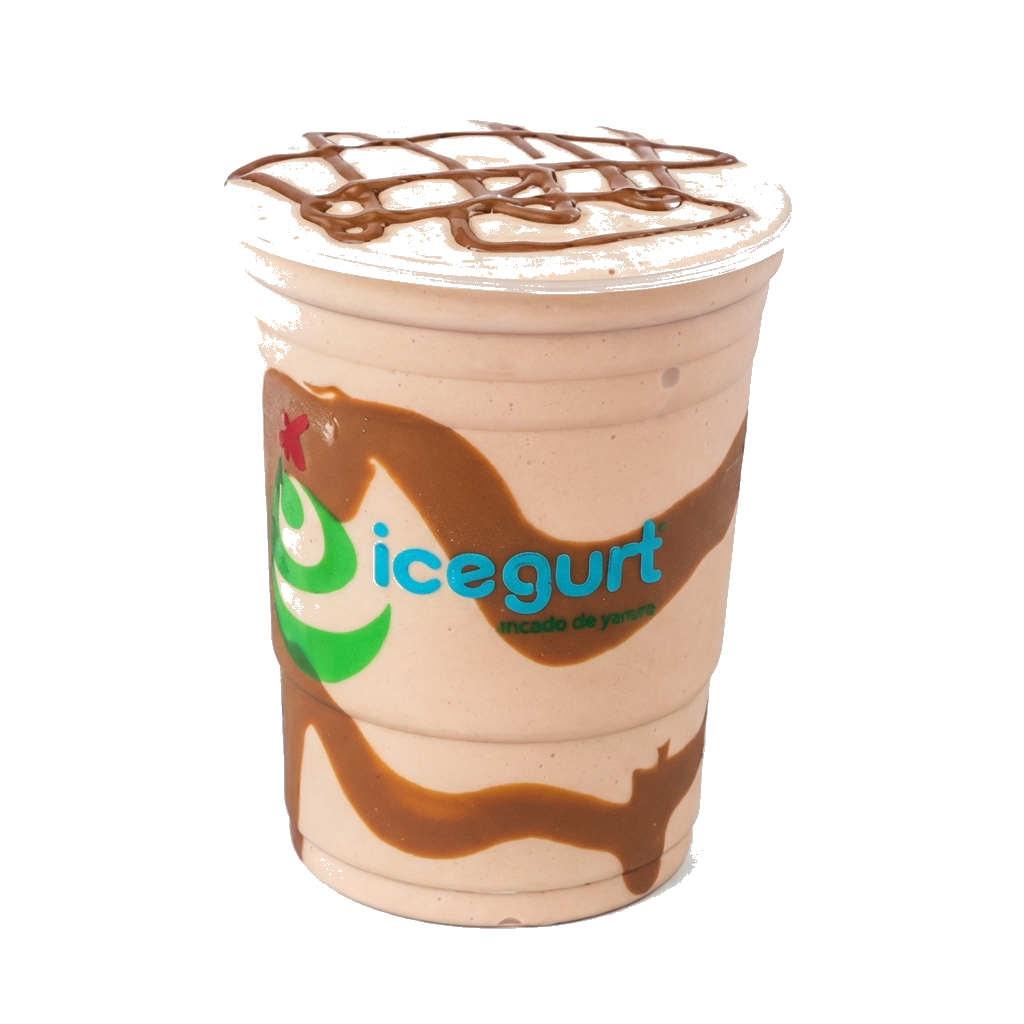
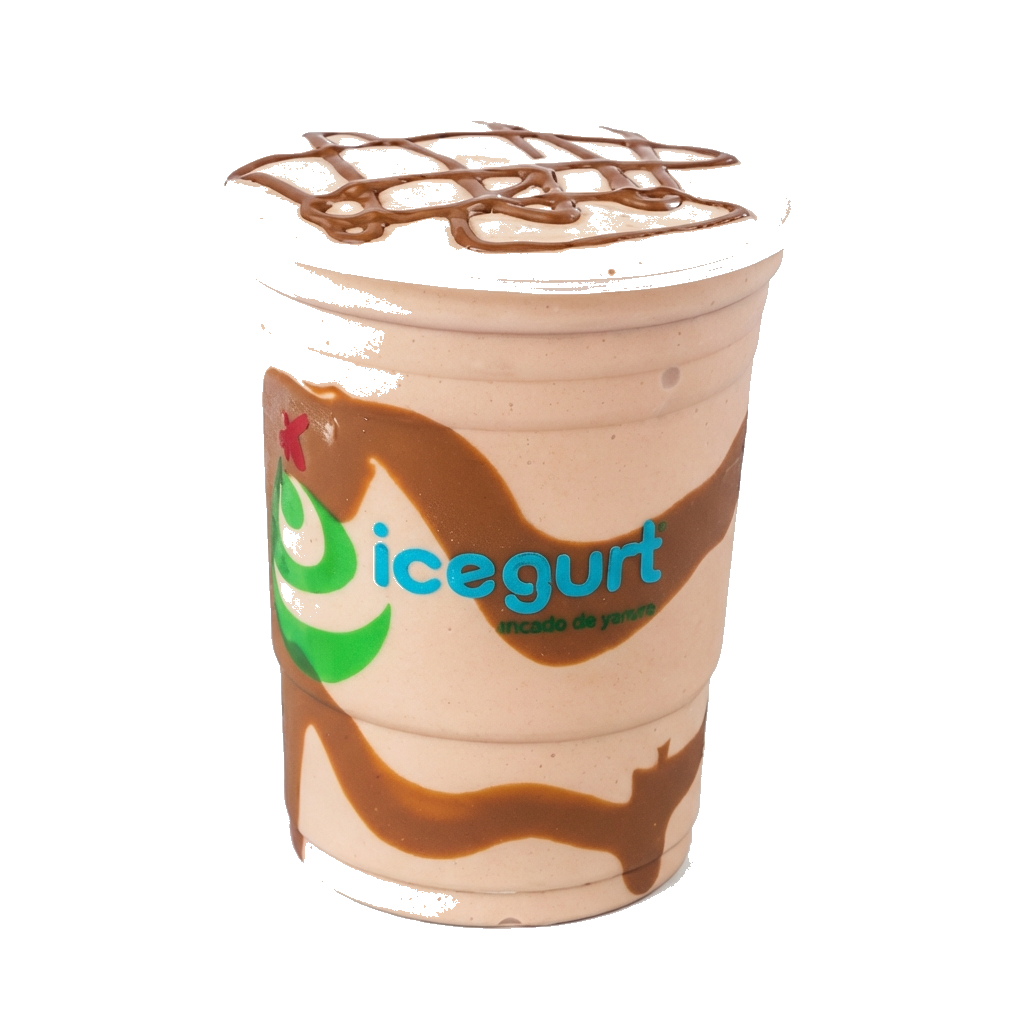
Update Musly product: fixed price (.000) and cleaned yellow background artifacts

Changed region(s): [[0.25, 0.1875, 0.7812, 0.4062], [0.2812, 0.8125, 0.4375, 0.9062], [0.6562, 0.1562, 0.7188, 0.1875]]

diff --git a/index.html b/index.html
@@ -160,12 +160,12 @@
                 </article>
 
                 <!-- Musly -->
-                <article class="product-card" data-name="Musly" data-price="13333">
-                    <div class="icon-wrapper">
+                <article class="product-card" data-name="Musly" data-price="14000">
+                    <div class="icon-wrapper contain">
                         <img src="product_musly.png" alt="Musly">
                     </div>
                     <h3>Musly</h3>
-                    <div class="price-tag">$13.333</div>
+                    <div class="price-tag">$14.000</div>
                     <button class="add-btn">AGREGAR <span>+</span></button>
                 </article>
             </div>

diff --git a/analyze_colors.py b/analyze_colors.py
@@ -1,0 +1,16 @@
+from PIL import Image
+
+def analyze_edge(image_path, edge='left'):
+    img = Image.open(image_path).convert("RGBA")
+    width, height = img.size
+    pixels = img.load()
+    
+    print(f"Analyzing {edge} edge of {image_path}...")
+    
+    if edge == 'left':
+        for y in range(0, height, 10): # Sample every 10 pixels
+            p = pixels[0, y]
+            p_inner = pixels[5, y] # 5 pixels in
+            print(f"y={y}: Edge={p}, Inner+5={p_inner}")
+
+analyze_edge("product_musly.png")
